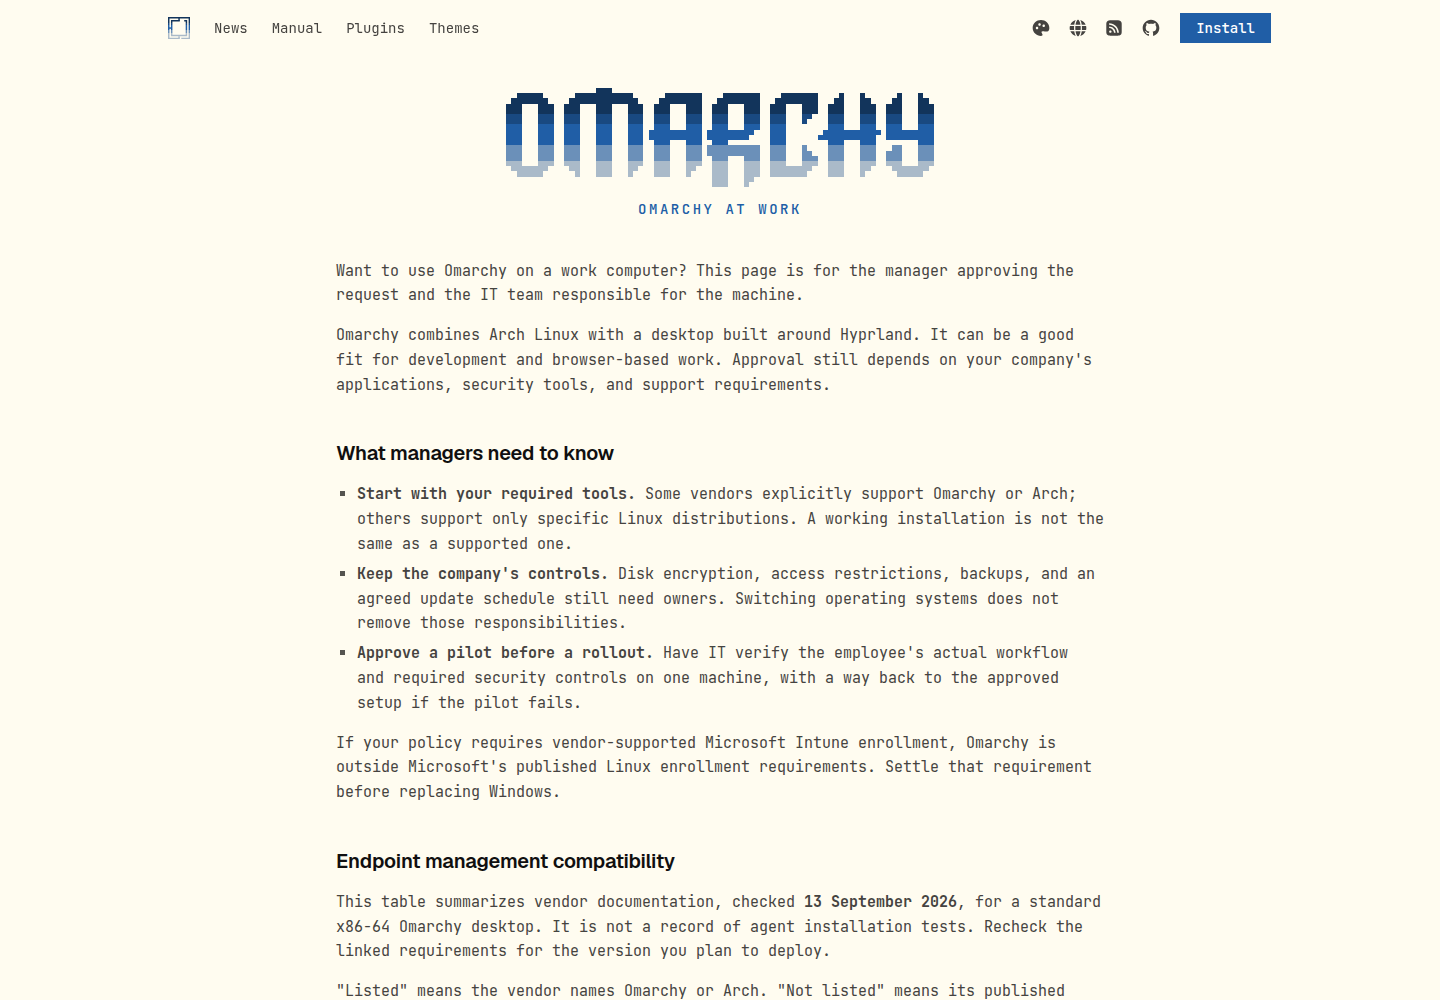
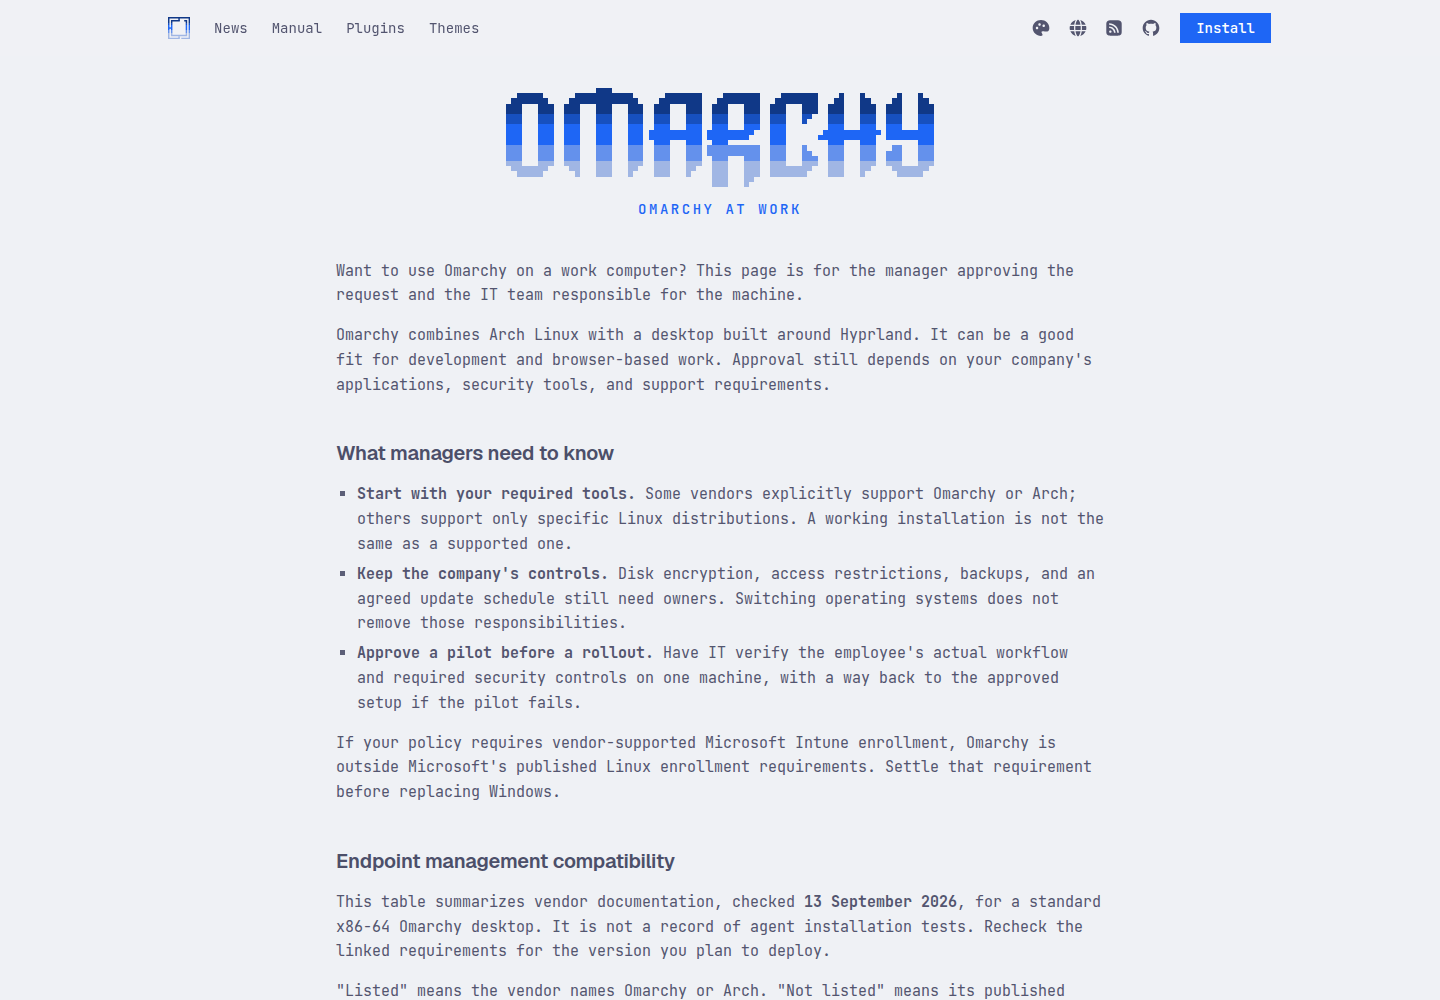
Refresh screenshots after support and security audit

diff --git a/README.md b/README.md
@@ -1,6 +1,6 @@
 # Omarchy at work PR screenshots
 
-Screenshots of the production build at source commit 86f39feb in yashranaway/omarchy-site, captured with Playwright Chromium through a temporary Cloudflare preview tunnel on 13 September 2026.
+Screenshots of the production build at source commit ef16480a in yashranaway/omarchy-site, captured with Playwright Chromium through a temporary Cloudflare preview tunnel on 13 September 2026.
 
 Desktop viewport: 1440 × 1000. Mobile viewport: 390 × 844. The mobile image shows the start of the scrollable page's compatibility table.
 
